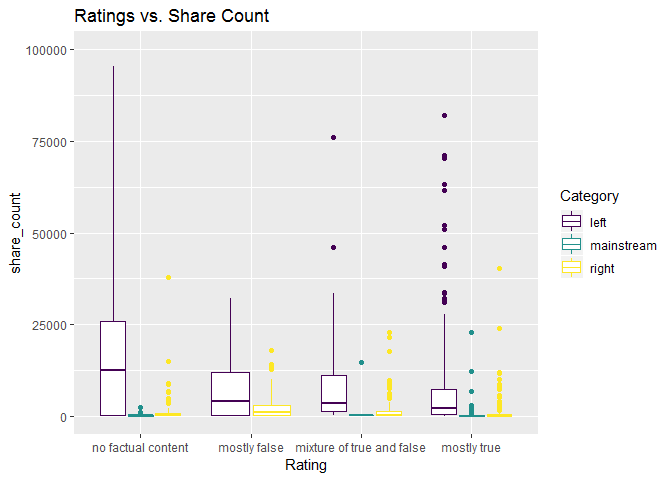
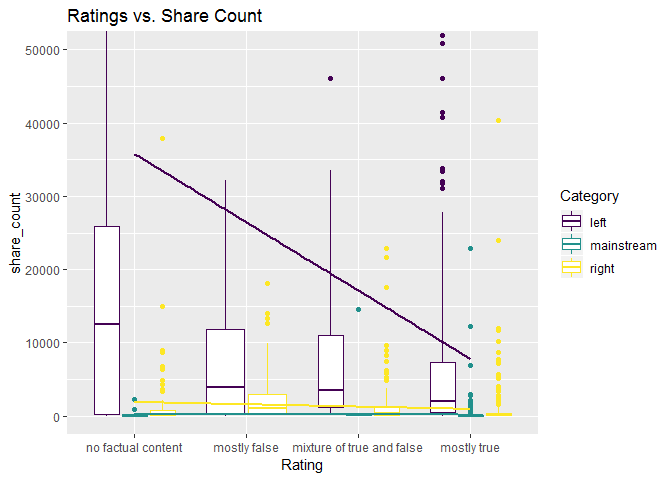
1st pairs panel added

diff --git a/facebook_factcheck.md b/facebook_factcheck.md
@@ -76,6 +76,23 @@ library(gmodels)
     ## Warning: package 'gmodels' was built under R version 3.4.4
 
 ``` r
+library(psych)
+```
+
+    ## Warning: package 'psych' was built under R version 3.4.4
+
+    ## 
+    ## Attaching package: 'psych'
+
+    ## The following objects are masked from 'package:scales':
+    ## 
+    ##     alpha, rescale
+
+    ## The following objects are masked from 'package:ggplot2':
+    ## 
+    ##     %+%, alpha
+
+``` r
 fb<-read.csv("file:///C:/Users/John/Documents/R/fact-checking-facebook-politics-pages/facebook-fact-check.csv")
 ```
 
@@ -105,7 +122,7 @@ no_tags<-fb[fb$Rating=="no factual content",]
 
 Acount<-fb[fb$Page == "Addicting info",]
 left<- fb[fb$Category=="left",]
-mainsteam<-fb[fb$Category=="mainstream",]
+mainstream<-fb[fb$Category=="mainstream",]
 right<- fb[fb$Category=="right",]
 
 #order changes
@@ -386,8 +403,9 @@ ggplot(fb,aes(x=Rating, group=Category))+
 
 ``` r
 ggplot(fb,aes(x=Rating,y= reaction_count,color= Category))+
-  geom_boxplot(coef=3, fun = median)+
-  coord_cartesian(ylim=c(0,100000))+
+  geom_boxplot( fun = median)+
+  coord_cartesian(ylim=c(0,50000))+
+    geom_smooth(aes(x=as.numeric(Rating),y= reaction_count,color= Category),method=lm,                  se = FALSE) +
   ggtitle("Ratings vs. Reaction Count")
 ```
 
@@ -398,7 +416,8 @@ ggplot(fb,aes(x=Rating,y= reaction_count,color= Category))+
 ``` r
 ggplot(fb,aes(x=Rating,y= share_count,color= Category))+
   geom_boxplot(coef=3, fun = median)+
-  coord_cartesian(ylim=c(0,100000))+
+  coord_cartesian(ylim=c(0,50000))+
+   geom_smooth(aes(x=as.numeric(Rating),y= share_count,color= Category),method=lm,                  se = FALSE) +
   ggtitle("Ratings vs. Share Count")
 ```
 
@@ -409,7 +428,8 @@ ggplot(fb,aes(x=Rating,y= share_count,color= Category))+
 ``` r
 ggplot(fb,aes(x=Rating,y= comment_count,color= Category))+
   geom_boxplot(coef=3, fun = median)+
-  coord_cartesian(ylim=c(0,7500))+
+  coord_cartesian(ylim=c(0,5000))+
+   geom_smooth(aes(x=as.numeric(Rating),y= comment_count,color= Category),method=lm,                  se = FALSE) +
   ggtitle("Ratings vs. Comment Count")
 ```
 
@@ -457,8 +477,19 @@ ggplot(fb, aes(Date.Published, group = Category)) +
 ![](facebook_factcheck_files/figure-markdown_github/unnamed-chunk-8-4.png)
 
 ``` r
-#ggplot(fb,aes(Rating,col=left))+
- # geom_bar()
+pairs.panels(fb[10:12],lm=TRUE, xlim= c(0,30000),ylim=c(0,30000), density = TRUE)
+```
+
+    ## Warning in rug(x): some values will be clipped
+
+    ## Warning in rug(x): some values will be clipped
+
+    ## Warning in rug(x): some values will be clipped
+
+![](facebook_factcheck_files/figure-markdown_github/unnamed-chunk-8-5.png)
+
+``` r
+#pairs.panels(fals_tags[c(left,mainstream,right)],lm=TRUE, xlim= c(0,30000),ylim=c(0,30000), density = TRUE)
 ```
 
 Here we see that " mostly true" posts made up the majority of the total posts.
